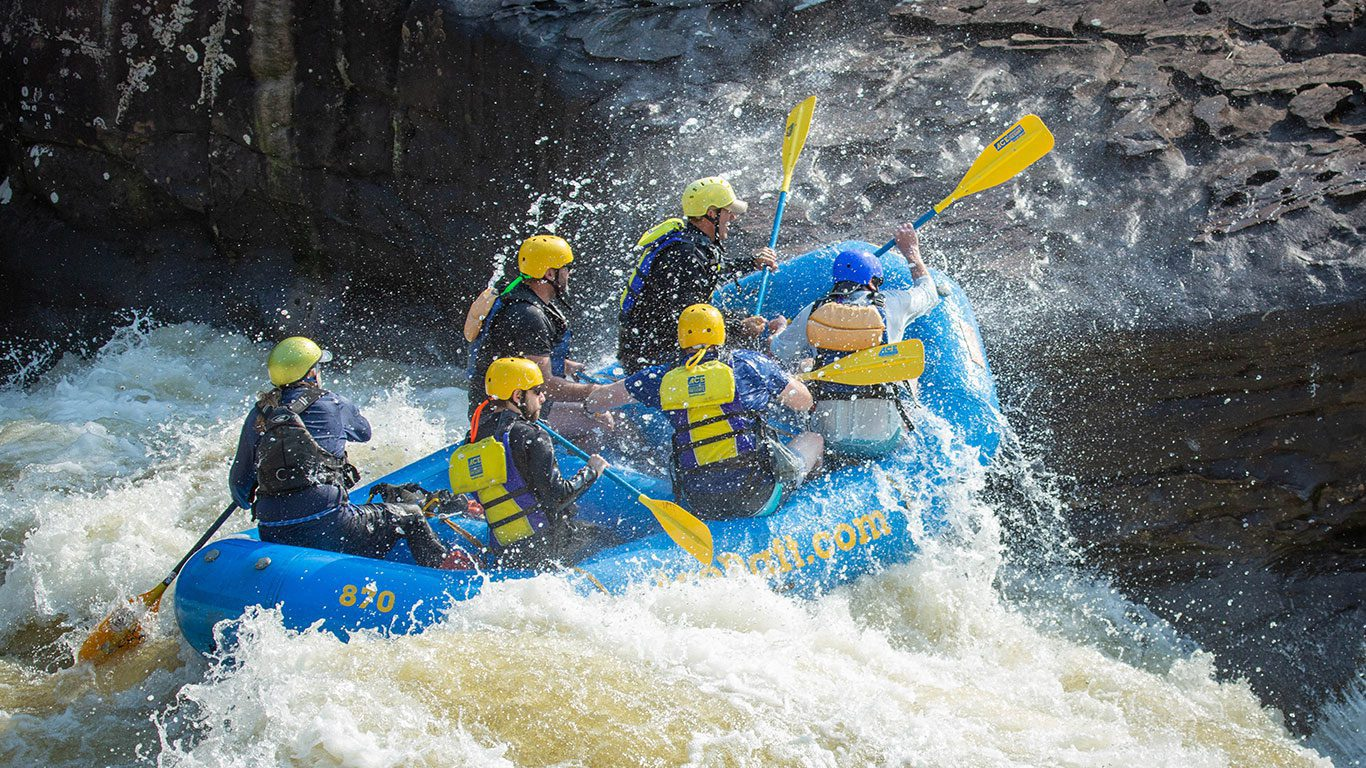
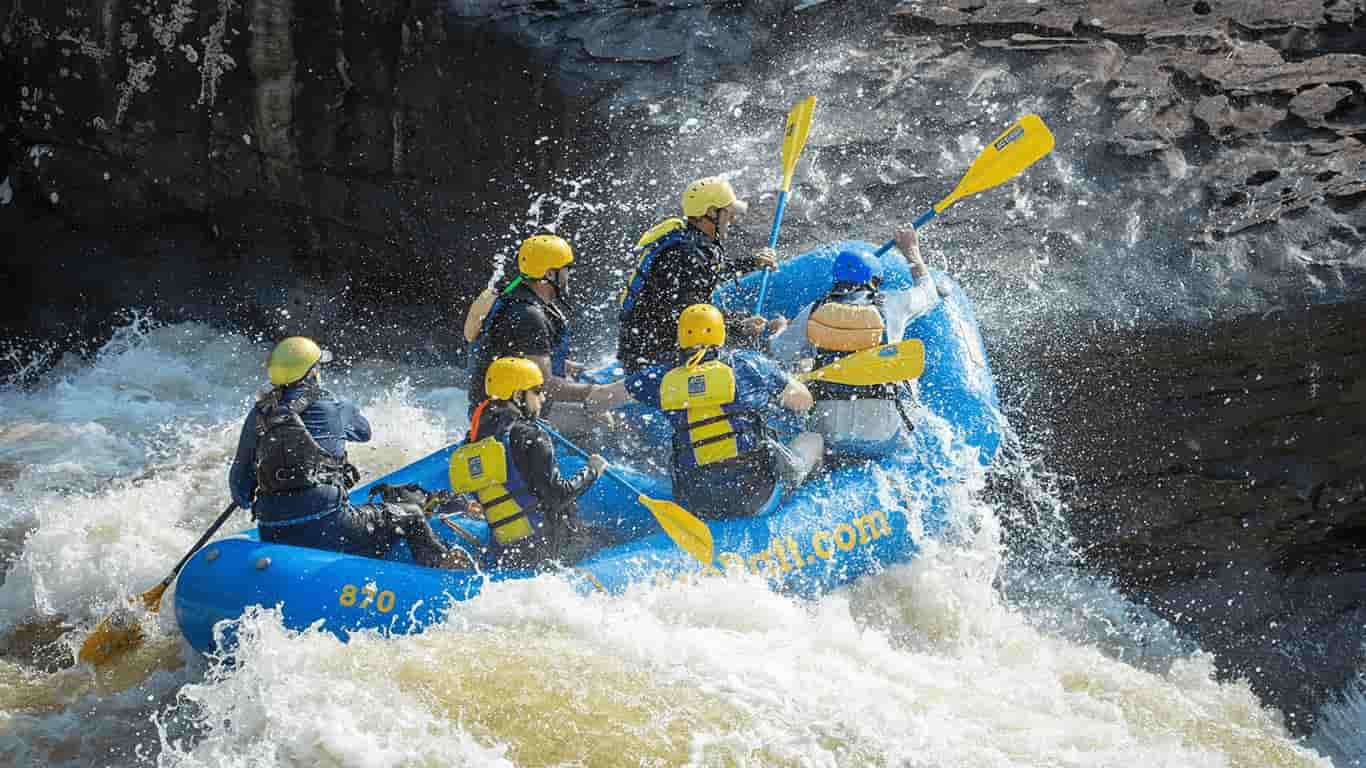
finnished week6

diff --git a/wwr/index.html b/wwr/index.html
@@ -37,7 +37,7 @@
     <main>
         <!-- Hero Section -->
         <section class="hero">
-            <img src="images/home-banner.webp" alt="Rafting adventure" />
+            <img src="images/home-banner.jpg" alt="Rafting adventure" />
             <h1 class="hero-title">Unleash the Adventure</h1>
         </section>
 
@@ -68,7 +68,7 @@
                 </p>
             </div>
             <div class="grid-item">
-                <img src="images/secure.png" alt="Teamwork rafting" />
+                <img src="images/secure.jpg" alt="Teamwork rafting" />
                 <p>Join our experienced team for a safe and exciting adventure.</p>
             </div>
         </section>
